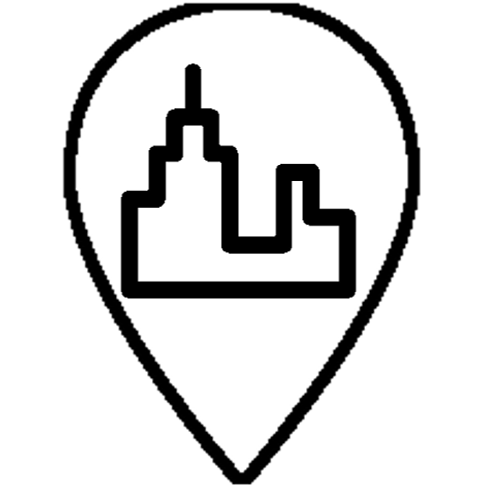
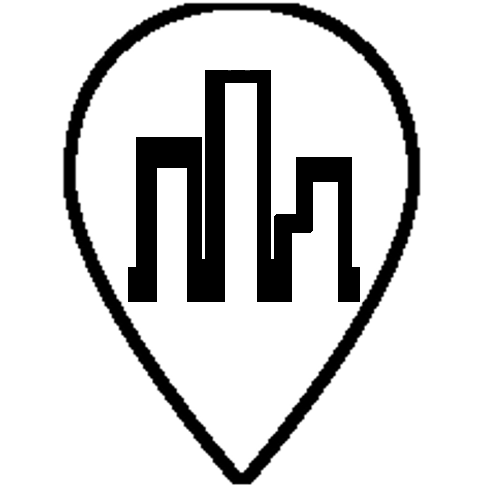
15-03-19 17:19

Changed region(s): [[0.24, 0.12, 0.72, 0.63]]

diff --git a/static/js/jsFunctions.js b/static/js/jsFunctions.js
@@ -97,16 +97,32 @@ function createPopup(feature_properties) {
 }
 
 function onEachEntity(feature, layer) {
-
+/*
         layer.bindTooltip(feature.properties.Name);
         content=createPopup(feature.properties);
-        layer.bindPopup(content,{maxHeight:200,maxWidth:400});
+        layer.bindPopup('<h4 id="title">'+feature.properties.Name+'</h4> ',{maxHeight:200,maxWidth: main_map.getSize()[1]});
         layer.on('click', function(e){
             main_map.setView(e.latlng, 9);
-            $('#lateral').html('<font size="2"><u onClick="hideDescription()" style="cursor: pointer;">Minimize/Expand</u>&ensp;<u style="cursor: pointer;" onClick="closeLateral()">Close</u></font>'+layer.getPopup().getContent())
+            $('#lateral').html('<font size="2"><u onClick="hideDescription()" style="cursor: pointer;">Minimize/Expand</u>&ensp;<u style="cursor: pointer;" onClick="closeLateral()">Close</u></font>'+content)
 
         });
-
+*/
+    id=feature.properties.ID
+        var content='';
+        main_map.eachLayer(function (livello){
+            if (livello.feature) {
+                if(livello.feature.properties.Role){
+                    if (livello.feature.properties.ID==id){
+                        content=createPopup(livello.feature.properties);
+                        layer.bindPopup('<h4 id="title">'+feature.properties.Name+'</h4> ',{maxHeight:200,maxWidth:400});
+                    }
+                }
+            }
+            });
+        layer.on('click', function(e){
+                main_map.setView(e.latlng, 9);
+                $('#lateral').html('<font size="2"><u onClick="hideDescription()" style="cursor: pointer;">Minimize/Expand</u>&ensp;<u style="cursor: pointer;" onClick="closeLateral()">Close</u></font>'+content);
+            });
 }
 function RMStyle(feature,latlng){
     switch (feature.properties["SIA"]){
@@ -303,6 +319,7 @@ function updateMap() {
                 for (var i = 0; i < roles.length; i++) {
                     
                     populateMap(x,roles);
+
                   }
             } 
             //populateMap(x,roles);
@@ -369,18 +386,20 @@ function selectall() {
 
 function onEachArea(feature,layer) {
     id=feature.properties.ID
+    var content='';
     main_map.eachLayer(function (livello){
         if (livello.feature) {
             if(livello.feature.properties.Role){
                 if (livello.feature.properties.ID==id){
-                    layer.bindPopup(livello.getPopup().getContent(),{maxHeight:200,maxWidth:400});
+                    content=createPopup(livello.feature.properties);
+                    layer.bindPopup('<h4 id="title">'+livello.feature.properties.Name+'</h4> ',{maxHeight:200,maxWidth:400});
                 }
             }
         }
         });
     layer.on('click', function(e){
             main_map.setView(e.latlng, 9);
-            $('#lateral').html('<font size="2"><u onClick="hideDescription()" style="cursor: pointer;">Minimize/Expand</u>&ensp;<u style="cursor: pointer;" onClick="closeLateral()">Close</u></font>'+layer.getPopup().getContent())
+            $('#lateral').html('<font size="2"><u onClick="hideDescription()" style="cursor: pointer;">Minimize/Expand</u>&ensp;<u style="cursor: pointer;" onClick="closeLateral()">Close</u></font>'+content);
         });
     //layer.bindTooltip(text,{sticky:true});
     
@@ -471,7 +490,6 @@ function onEachBuilding(feature, layer) {
     else{
         layer.bindTooltip(feature.properties.name)
     }
-    console.log(feature);
     layer.bindPopup(feature.properties.description,{autoPan:false, closePopupOnClick:false});
     layer.on('click', function(e){
         //main_map.setView(e.latlng);
@@ -524,7 +542,6 @@ function BuildingStyle(feature,latlng){
             return marker;
 
         case "Polygon":
-            console.log('pippo');
             polygon=L.polygon(latlng);
             polygon.setStyle({fillColor: '#ff0000'});
             return polygon;
@@ -562,7 +579,7 @@ function addBuildings() {
 
 //CODE TO ADD CITY TO THE MAP
 function TownStyle(feature,latlng) {
-    /*var TownIcon = L.AwesomeMarkers.icon({
+   /* var TownIcon = L.AwesomeMarkers.icon({
                             icon: 'city',
                             iconColor: 'black',
                             markerColor: 'white',
@@ -570,12 +587,26 @@ function TownStyle(feature,latlng) {
                             extraClasses: 'fa-rotate-0'
                             });*/
     var TownIcon = L.icon({
-                iconUrl: 'static/img/town2.png',
+                iconUrl: 'static/img/town4.png',
                 iconSize:     [42,42], // size of the icon
             });
 
+
                 //return L.marker(latlng, {icon: TownIcon, riseOnHover: true});
     var marker=L.marker(latlng, {icon: TownIcon, riseOnHover: true});
+    marker.on('click', function() {
+    this.setIcon(
+        L.icon({
+                iconUrl: 'static/img/town4.png',
+                iconSize:     [42,42], // size of the icon
+            })
+    );
+
+    });
+
+
+    //Uncomment to have the same markers
+    //var marker=L.marker(latlng, {riseOnHover: true});
     return marker
 }
 
@@ -586,7 +617,11 @@ function onEachTown(feature, layer) {
     var lateral_content='<font size="2"><u onClick="hideDescription()" style="cursor: pointer;">Minimize/Expand</u>&ensp;<u style="cursor: pointer;" onClick="closeLateral()">Close</u></font>'+content+'<br><font size="2"><div id="extra"><font size="2"><b>Description</b><p>'+feature.properties.DESCRIPTION+'</p>'
     //layer.bindPopup(content,{autoPan:false,autoclose:false});
     layer.on('click', function(e){
-        main_map.setView(e.latlng,12);
+        //main_map.setView(e.latlng,12);
+        //console.log(layer);
+        
+        
+        layer.options.icon.options.iconUrl='static/img/town2_red.png';
         $('#lateral').html(lateral_content)
         //layer.getPopup().openPopup();
     });
@@ -622,18 +657,18 @@ function addTowns() {
 //CODE TO ADD SITES TO THE MAP
 
 function SiteStyle(feature,latlng) {
-    var SiteIcon = L.icon({
+    /*var SiteIcon = L.icon({
                 iconUrl: 'static/img/site.png',
                 iconSize:     [42,42], // size of the icon
             });
 
                 //return L.marker(latlng, {icon: TownIcon, riseOnHover: true});
-    var marker=L.marker(latlng, {icon: SiteIcon, riseOnHover: true});
+    var marker=L.marker(latlng, {icon: SiteIcon, riseOnHover: true});*/
+    var marker=L.marker(latlng, {riseOnHover: true});
     return marker
 }
 
 function onEachSite(feature, layer) {
-    console.log(feature) ; 
     layer.bindTooltip(feature.properties.NAME) 
     var content='<h4 id="title">'+feature.properties.NAME+'</h4>';
     if (feature.properties.DESCRIPTION!='Not available') {
@@ -907,3 +942,42 @@ function updateFlow(argument) {
 
 }
 
+function createDropwdown() {
+    var roles=[]
+    var sias=[]
+    
+    checkboxesRole=document.getElementById('roles');
+    for (i=0;i<checkboxesRole.children.length;i++){
+        if (checkboxesRole.children[i].type=="checkbox")
+        {
+            roles.push(checkboxesRole.children[i].value)}
+
+        }
+
+    checkboxesSIA=document.getElementById('sias');
+    for (i=0;i<checkboxesSIA.children.length;i++){
+        if (checkboxesSIA.children[i].type=="checkbox")
+        {                sias.push(checkboxesSIA.children[i].value)}
+        }
+    var queryResult=$.ajax({
+        method: 'GET',      
+        url: "/querySIA",
+        data: {Roles:JSON.stringify(roles), SIAs:JSON.stringify(sias)},
+        dataType: 'json',
+
+        success: function(response) {
+            result=response;
+            var dropdowncontent=''
+            for (var i = 0; i < result.features.length; i++) {
+                if (result.features[i].properties.Role=="RM")
+                {   
+                    dropdowncontent=dropdowncontent+'<a class="dropdown-item" href="#">'+result.features[i].properties.Name+'</a>'
+                }
+            }
+            $('#rmlist').html(dropdowncontent);
+            //populateMap(x,roles);
+            //console.log(x);
+            
+    }});
+
+}

diff --git a/templates/test.html b/templates/test.html
@@ -4,8 +4,9 @@
     <script>L_PREFER_CANVAS=false; L_NO_TOUCH=false; L_DISABLE_3D=false;</script>
     <script src="https://cdn.jsdelivr.net/npm/leaflet@1.3.4/dist/leaflet.js"></script>
     <script src="https://ajax.googleapis.com/ajax/libs/jquery/3.1.0/jquery.min.js"></script>
-    <script src="https://maxcdn.bootstrapcdn.com/bootstrap/3.2.0/js/bootstrap.min.js"></script>
+    <script src="https://maxcdn.bootstrapcdn.com/bootstrap/4.0.0/js/bootstrap.min.js"></script>
     <!--
+        <script src="https://maxcdn.bootstrapcdn.com/bootstrap/3.2.0/js/bootstrap.min.js"></script>
     <script src="https://cdnjs.cloudflare.com/ajax/libs/Leaflet.awesome-markers/2.0.2/leaflet.awesome-markers.js"></script>
     <link rel="stylesheet" href="https://cdn.jsdelivr.net/npm/leaflet@1.3.4/dist/leaflet.css"/> 
 
@@ -112,19 +113,24 @@ img.resize {
     </a>
     <a class="nav-link" href="/">Atlas</a>
     <a class="nav-link" href="/bestpractices">Lessons Learned</a>
+    
   </nav>
 </div>
 <div class='row'>
-            <div class="col-lg-12" style="position: fixed;margin-top: 115px; z-index: 90000;background-color: white">
-                <b>Legenda :</b>
-                &ensp;
-                RoleModel:
-                &ensp;
-                Replicator: <i class="fas fa-user"></i>
-                &ensp;
-                Towns: <img src="static/img/town2.png" width="42" height="42">
-            </div>
+            <div class="col-lg-12" style="margin-top: 115px; z-index: 90000">
+                <div class="dropdown">
+  <button class="btn btn-secondary dropdown-toggle" type="button" id="dropdownMenuButton" data-toggle="dropdown" aria-haspopup="true" aria-expanded="false">
+    Dropdown button
+  </button>
+  <div class="dropdown-menu" aria-labelledby="dropdownMenuButton">
+    <a class="dropdown-item" href="#">Action</a>
+    <a class="dropdown-item" href="#">Another action</a>
+    <a class="dropdown-item" href="#">Something else here</a>
+  </div>
 </div>
+
+            </div>
+            </div>
 
         <div class='row'>
                 <div class="folium-map" id="main_map" ></div> 
@@ -329,17 +335,20 @@ var townLayer=false;
 var buildingsLayer=false;
 var siteLayer=false;
 
+var clickedTown=null;
+
 main_map.on('zoomend', function() {
 hideOnZoom(); 
 
 });
-main_map.on('moveend', function() {
+/*main_map.on('moveend', function() {
 hideOnMove(); 
 
-});
+});*/
 
 
-window.onLoad=updateMap();   
+window.onLoad=updateMap();
+//window.onLoad=createDropwdown()   
 
 </script>
 
